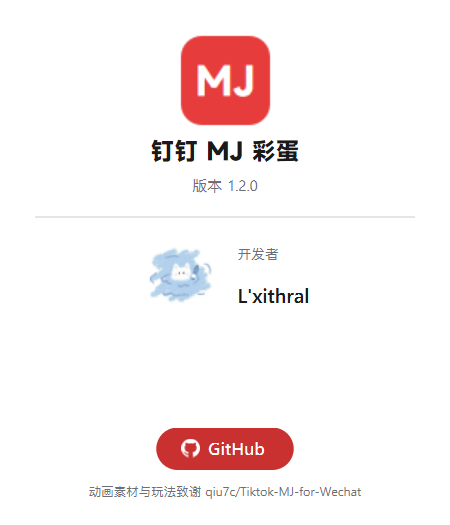
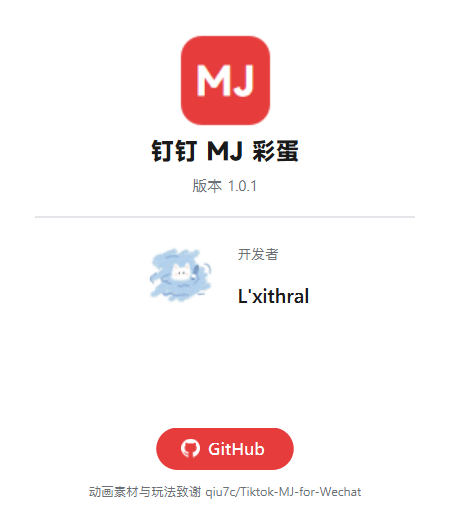
v1.0.1: 开机自启(托盘开关+注册表Run键) + 启动splash(屏幕中央渐显应用图标, 深浅色自适应)

Changed region(s): [[0.3422, 0.7924, 0.6533, 0.9143], [0.5289, 0.3352, 0.5911, 0.3657]]

diff --git a/mjegg/splash.py b/mjegg/splash.py
@@ -1,0 +1,74 @@
+# -*- coding: utf-8 -*-
+"""启动 splash: 程序启动时在屏幕中央短暂渐显应用图标与版本号."""
+from PyQt6.QtCore import Qt, QTimer, QPropertyAnimation, QPoint
+from PyQt6.QtGui import QCursor, QGuiApplication
+from PyQt6.QtWidgets import QWidget, QVBoxLayout, QLabel, QGraphicsOpacityEffect
+
+from .about import APP_NAME, APP_VERSION
+from . import theme
+
+
+class Splash(QWidget):
+    """显示约 1.2 秒后淡出并自动销毁; 无边框不抢焦点, 不进任务栏."""
+
+    def __init__(self, app_icon):
+        super().__init__(None,
+                         Qt.WindowType.FramelessWindowHint
+                         | Qt.WindowType.Tool
+                         | Qt.WindowType.WindowStaysOnTopHint)
+        self.setAttribute(Qt.WidgetAttribute.WA_TranslucentBackground)
+        self.setAttribute(Qt.WidgetAttribute.WA_ShowWithoutActivating)
+        self.setFixedSize(300, 240)
+
+        c = theme.palette_dict()
+        v = QVBoxLayout(self)
+        v.setContentsMargins(0, 0, 0, 0)
+        v.setSpacing(8)
+        icon_label = QLabel()
+        icon_label.setPixmap(app_icon.pixmap(112, 112))
+        icon_label.setScaledContents(True)
+        icon_label.setAlignment(Qt.AlignmentFlag.AlignCenter)
+        name = QLabel(APP_NAME)
+        name.setStyleSheet(f"color: {c['text']}; font-size: 20px; font-weight: 700; background: transparent;")
+        name.setAlignment(Qt.AlignmentFlag.AlignCenter)
+        ver = QLabel(f"v{APP_VERSION}")
+        ver.setStyleSheet(f"color: {c['subtext']}; font-size: 12px; background: transparent;")
+        ver.setAlignment(Qt.AlignmentFlag.AlignCenter)
+        v.addStretch(1)
+        v.addWidget(icon_label)
+        v.addWidget(name)
+        v.addWidget(ver)
+        v.addStretch(1)
+
+        self._opacity = QGraphicsOpacityEffect(self)
+        self._opacity.setOpacity(0.0)
+        self.setGraphicsEffect(self._opacity)
+        self._anim = QPropertyAnimation(self._opacity, b"opacity", self)
+        self._anim.setDuration(450)
+
+        self._place_center()
+
+    def _place_center(self):
+        screen = QGuiApplication.screenAt(QCursor.pos()) or QGuiApplication.primaryScreen()
+        geo = screen.geometry()
+        self.move(geo.center() - QPoint(self.width() // 2, self.height() // 2))
+
+    def run(self):
+        self.show()
+        self._anim.stop()
+        self._anim.setStartValue(0.0)
+        self._anim.setEndValue(1.0)
+        self._anim.start()
+        QTimer.singleShot(1300, self._fade_out)
+        return self
+
+    def _fade_out(self):
+        self._anim.stop()
+        self._anim.setStartValue(self._opacity.opacity())
+        self._anim.setEndValue(0.0)
+        try:
+            self._anim.finished.disconnect()
+        except TypeError:
+            pass
+        self._anim.finished.connect(self.close)
+        self._anim.start()

diff --git a/mjegg/autostart.py b/mjegg/autostart.py
@@ -1,0 +1,53 @@
+# -*- coding: utf-8 -*-
+"""开机自启动: HKCU 注册表 Run 键 (无需管理员权限).
+
+打包后指向 exe 自身; 源码运行指向 pythonw + main.py (不弹终端).
+"""
+import logging
+import os
+import sys
+
+import winreg
+
+log = logging.getLogger("mjegg.autostart")
+
+_RUN_KEY = r"Software\Microsoft\Windows\CurrentVersion\Run"
+_VALUE_NAME = "MJDingTalk"
+
+
+def _command() -> str:
+    """写入 Run 键的启动命令."""
+    if getattr(sys, "frozen", False):
+        return f'"{sys.executable}"'
+    pythonw = sys.executable.replace("python.exe", "pythonw.exe")
+    if not os.path.exists(pythonw):
+        pythonw = sys.executable
+    script = os.path.join(os.path.dirname(os.path.dirname(os.path.abspath(__file__))), "main.py")
+    return f'"{pythonw}" "{script}"'
+
+
+def is_enabled() -> bool:
+    try:
+        with winreg.OpenKey(winreg.HKEY_CURRENT_USER, _RUN_KEY) as k:
+            winreg.QueryValueEx(k, _VALUE_NAME)
+            return True
+    except OSError:
+        return False
+
+
+def set_enabled(on: bool) -> bool:
+    """设置开机自启, 返回操作后状态."""
+    try:
+        if on:
+            with winreg.OpenKey(winreg.HKEY_CURRENT_USER, _RUN_KEY, 0, winreg.KEY_SET_VALUE) as k:
+                winreg.SetValueEx(k, _VALUE_NAME, 0, winreg.REG_SZ, _command())
+        else:
+            try:
+                with winreg.OpenKey(winreg.HKEY_CURRENT_USER, _RUN_KEY, 0, winreg.KEY_SET_VALUE) as k:
+                    winreg.DeleteValue(k, _VALUE_NAME)
+            except FileNotFoundError:
+                pass
+        return is_enabled() == on
+    except OSError as e:
+        log.error("设置开机自启失败: %s", e)
+        return False

diff --git a/main.py b/main.py
@@ -15,9 +15,11 @@ from PyQt6.QtWidgets import QApplication, QMenu, QSystemTrayIcon
 
 from mjegg import theme
 from mjegg.about import AboutDialog, APP_NAME, APP_VERSION
+from mjegg.autostart import is_enabled as autostart_enabled, set_enabled as set_autostart
 from mjegg.config import load_config
 from mjegg.overlay import draw_tray_icon_pixmap, spawn_egg_window
 from mjegg.paths import app_dir
+from mjegg.splash import Splash
 from mjegg.watcher import Detector
 
 
@@ -92,6 +94,9 @@ def main():
     detector = Detector(cfg, on_trigger=bridge.trigger.emit)
     detector.start()
 
+    # ---------- 启动 splash: 屏幕中央渐显应用图标 ----------
+    Splash(app_icon).run()
+
     # ---------- 托盘 ----------
     tray = QSystemTrayIcon()
     tray.setIcon(app_icon)
@@ -105,6 +110,13 @@ def main():
 
     tray_action_test = menu.addAction("播放测试")
     tray_action_test.triggered.connect(play)
+
+    tray_action_autostart = menu.addAction("开机自启")
+    tray_action_autostart.setCheckable(True)
+    tray_action_autostart.setChecked(autostart_enabled())
+    tray_action_autostart.toggled.connect(
+        lambda on: log.info("开机自启%s(%s)", "开" if on else "关",
+                            "已写入" if set_autostart(on) else "失败"))
 
     tray_action_about = menu.addAction("关于")
     tray_action_about.triggered.connect(show_about)

diff --git a/mjegg/about.py b/mjegg/about.py
@@ -10,7 +10,7 @@ from .paths import resource_path
 from . import theme
 
 APP_NAME = "钉钉 MJ 彩蛋"
-APP_VERSION = "1.2.0"
+APP_VERSION = "1.0.1"
 DEVELOPER = "L'xithral"
 REPO_URL = "https://github.com/Lxithral/Tiktok-MJ-for-DingTalk"
 
